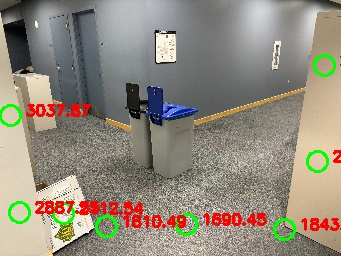
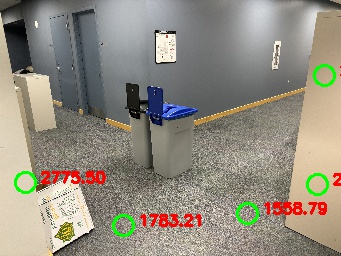
Further optimized clustering using color and gaussian blur on the color

Changed region(s): [[0.0, 0.5625, 1.0, 0.9688], [0.0, 0.4062, 0.2639, 0.5], [0.9091, 0.1875, 1.0, 0.3438]]

diff --git a/python_server/depth_estimation_utils.py b/python_server/depth_estimation_utils.py
@@ -44,7 +44,7 @@ def estimate_depth(image_path):
     print(f"[INFO] Depth estimation completed in {end_time - start_time:.4f} seconds.")
     return depth_map
 
-def apply_kmeans_with_spatial_color(depth_map, image, num_clusters=3, color_weight=0.1):
+def apply_kmeans_with_spatial_color(depth_map, image, num_clusters=3, color_weight=0.1, blur_ksize=(15, 15)):
     print("[INFO] Starting K-means clustering process...")
     start_time = time.time()
 
@@ -60,6 +60,12 @@ def apply_kmeans_with_spatial_color(depth_map, image, num_clusters=3, color_weig
     resized_depth_map = cv2.resize(depth_map, (new_width, fixed_height), interpolation=cv2.INTER_LINEAR)
     resized_image = cv2.resize(image, (new_width, fixed_height), interpolation=cv2.INTER_LINEAR)
 
+    # Step 1: Apply Gaussian blur to the RGB channels of the image to smooth color surfaces
+    blurred_image = cv2.GaussianBlur(resized_image, blur_ksize, 0)
+    blurred_image_path = './blurred_image.png'
+    cv2.imwrite(blurred_image_path, blurred_image)
+
+
     # Create meshgrid for spatial information
     height, width = resized_depth_map.shape
     y_coords, x_coords = np.meshgrid(np.arange(height), np.arange(width), indexing='ij')
@@ -74,17 +80,17 @@ def apply_kmeans_with_spatial_color(depth_map, image, num_clusters=3, color_weig
     x_normalized = x_flat / width
     y_normalized = y_flat / height
 
-    # Extract RGB channels from the resized image
-    r_channel = resized_image[:, :, 0].flatten()
-    g_channel = resized_image[:, :, 1].flatten()
-    b_channel = resized_image[:, :, 2].flatten()
+    # Extract RGB channels from the blurred image
+    r_channel = blurred_image[:, :, 0].flatten()
+    g_channel = blurred_image[:, :, 1].flatten()
+    b_channel = blurred_image[:, :, 2].flatten()
 
     # Normalize RGB values to be between 0 and 1, and reduce their influence by scaling
     r_normalized = (r_channel / 255.0) * color_weight
     g_normalized = (g_channel / 255.0) * color_weight
     b_normalized = (b_channel / 255.0) * color_weight
 
-    # Stack features for clustering (including RGB values)
+    # Stack features for clustering (including RGB values with reduced importance)
     features = np.stack([x_normalized, y_normalized, depth_normalized, r_normalized, g_normalized, b_normalized], axis=1)
     print(features.shape)
     print("[INFO] Running K-Means...")

diff --git a/python_server/midas_server_clustering2.py b/python_server/midas_server_clustering2.py
@@ -39,7 +39,8 @@ def process_image_and_kmeans_clusters():
 
     num_clusters = 10
     color_weight = 0.50
-    clustered_map, cluster_centers = apply_kmeans_with_spatial_color(depth_map, image, num_clusters, color_weight)
+    blur_ksize=(15, 15)
+    clustered_map, cluster_centers = apply_kmeans_with_spatial_color(depth_map, image, num_clusters, color_weight, blur_ksize)
 
     # Calculate the centroids (center of mass) of each cluster
     centroids = calculate_cluster_centroids(clustered_map)
